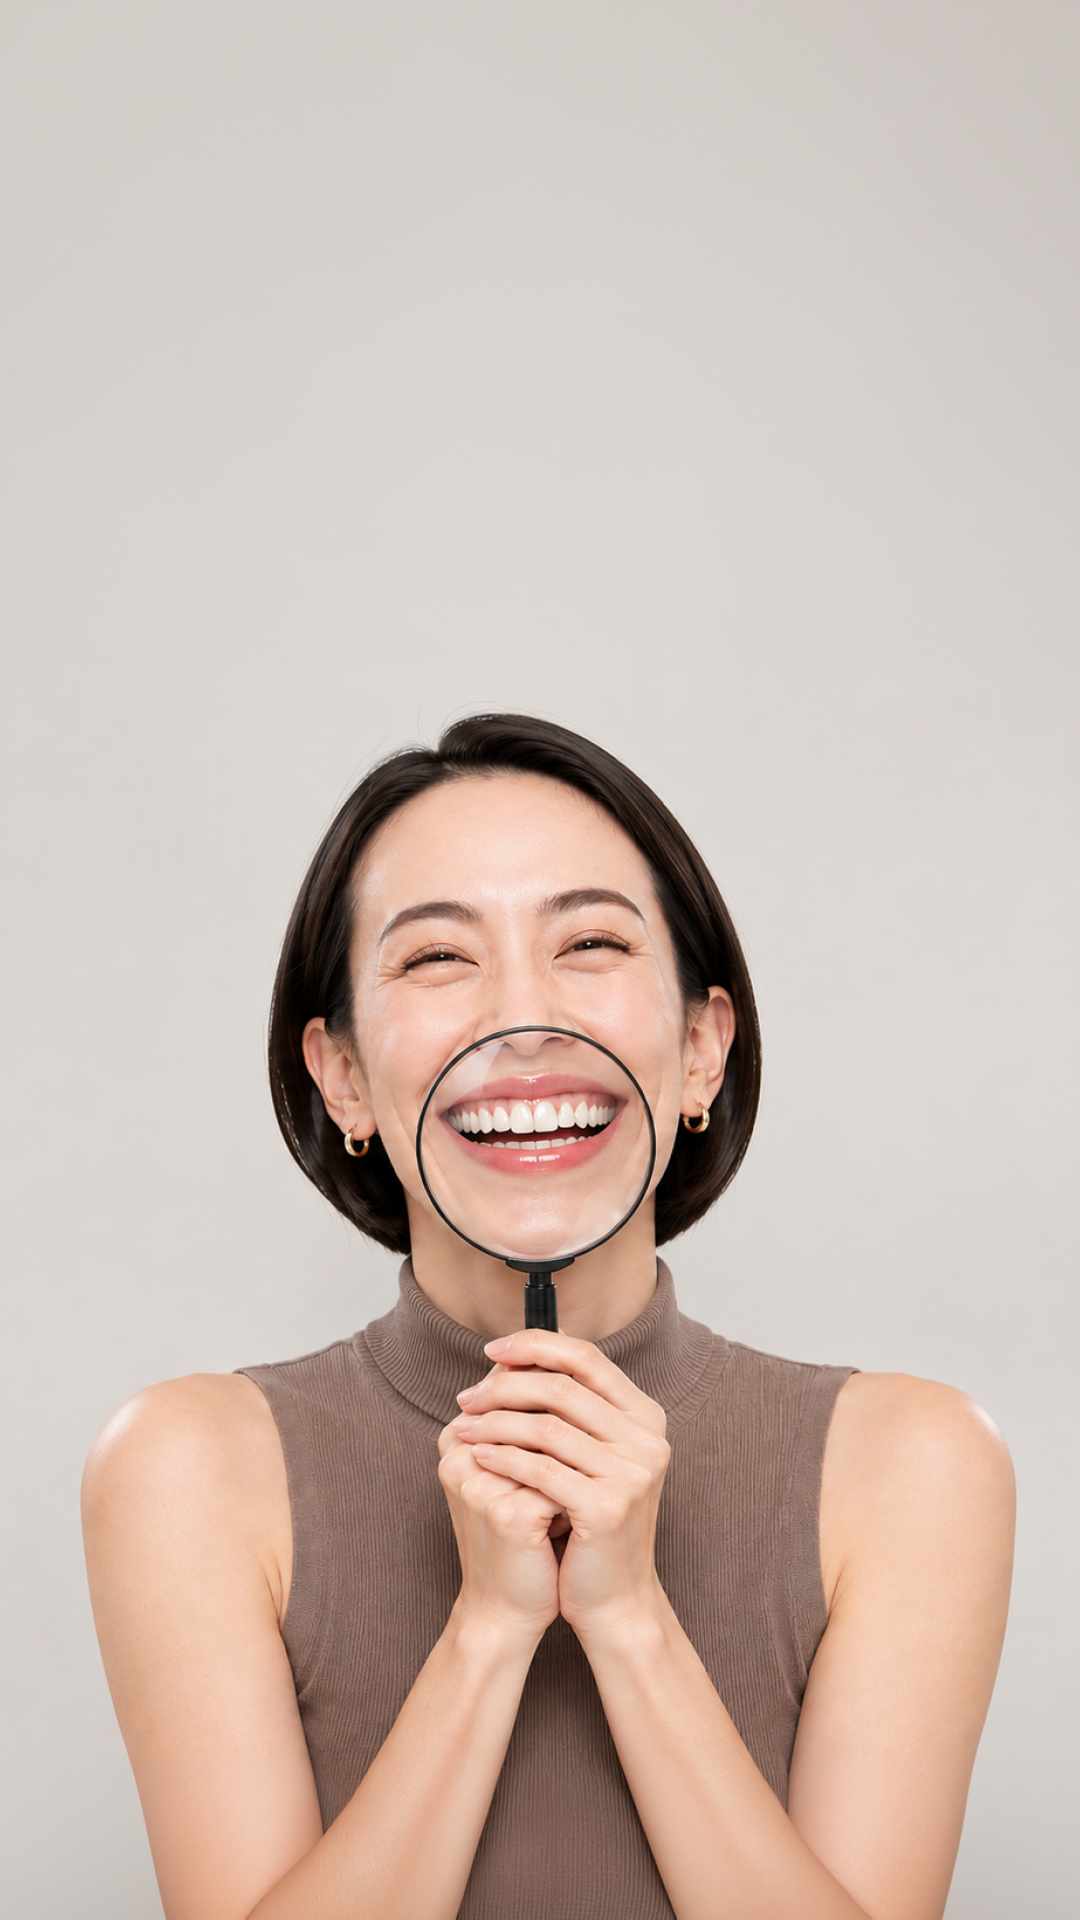
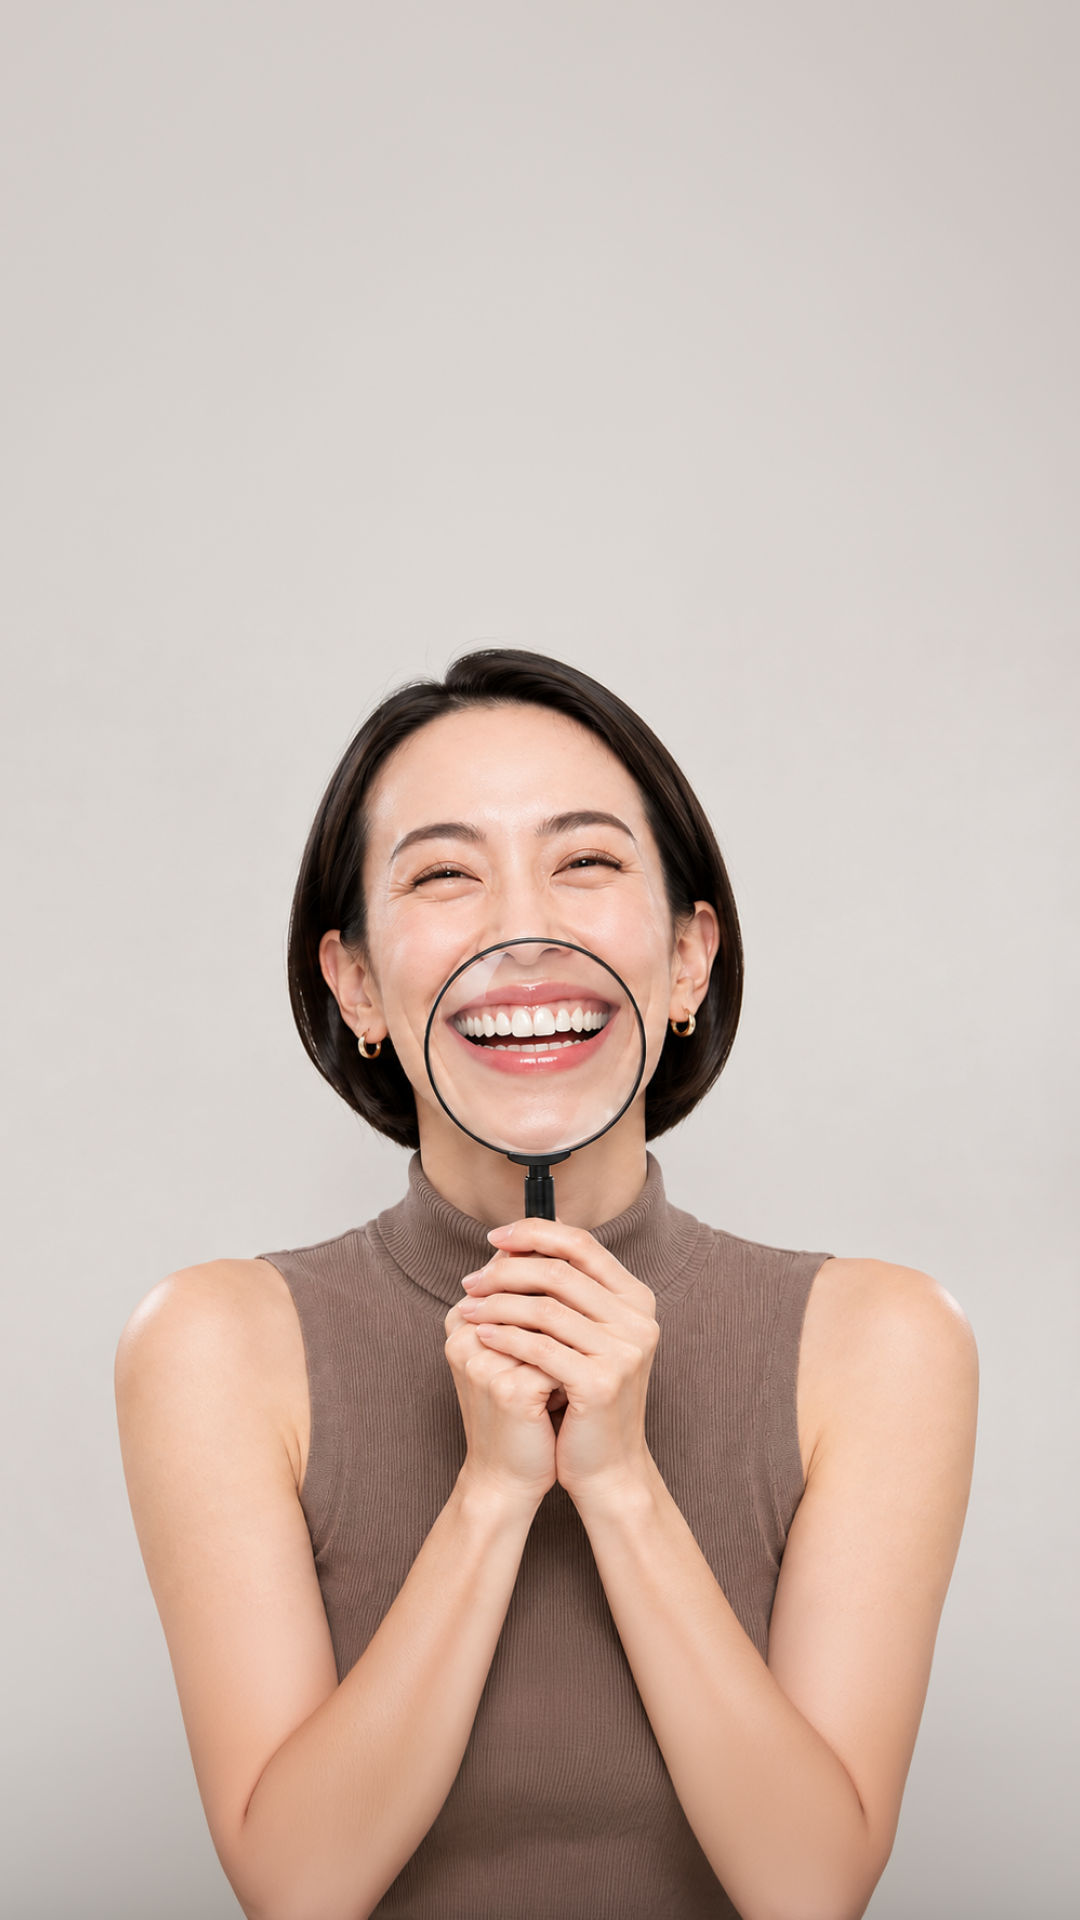
Update B mobile hero photo and lower title group 10px

Changed region(s): [[0.0, 0.3125, 0.9472, 1.0]]

diff --git a/smile-rwd-B/index.html b/smile-rwd-B/index.html
@@ -116,7 +116,7 @@
     }
   </style>
   <link rel="stylesheet" href="typography.css?v=editorial-intro-164">
-  <link rel="stylesheet" href="hero-photo.css?v=b-mobile-copy-gap-268">
+  <link rel="stylesheet" href="hero-photo.css?v=b-mobile-copy-down10-282">
   <link href="https://fonts.googleapis.com/css2?family=Noto+Serif+TC:wght@900&amp;display=block&amp;text=%E7%9F%AF%E6%AD%A3%E5%89%8D%EF%BC%8C%E5%85%88%E7%9C%8B%E6%87%82%E4%BB%A3%E5%83%B9" rel="stylesheet">
 
   <script>document.documentElement.classList.add('fonts-pending');window.smileFontsReady=new Promise(function(resolve){window.resolveSmileFonts=resolve;});</script>
@@ -170,7 +170,7 @@
       <main id="editorial-main-content">
         <section class="w-full">
           <div class="photo-hero photo-hero-b">
- <div class="photo-hero-media"><picture><source media="(max-width:639px)" srcset="./images/hero-photo-mobile.png?v=266"><img src="./images/hero-photo-cover-reference-v6.png?v=249" alt="女性手持放大鏡，凸顯整齊明亮的笑容" width="1671" height="941" fetchpriority="high" decoding="async"></picture></div>
+ <div class="photo-hero-media"><picture><source media="(max-width:639px)" srcset="./images/hero-photo-mobile.png?v=282"><img src="./images/hero-photo-cover-reference-v6.png?v=282" alt="女性手持放大鏡，凸顯整齊明亮的笑容" width="1671" height="941" fetchpriority="high" decoding="async"></picture></div>
  <div class="photo-hero-copy"><div class="photo-hero-copy-inner"><h1><span>矯正前<span class="b-hero-desktop-comma">，</span></span><span>先看懂代價</span></h1><p>打造完美笑容的安心法則</p></div></div>
  <button type="button" class="photo-hero-scroll" aria-label="捲動至內容"><svg viewBox="0 0 24 24" fill="none" stroke="currentColor" stroke-width="2" aria-hidden="true"><path d="m6 9 6 6 6-6"/></svg></button>
 </div>

diff --git a/smile-rwd-B/hero-photo.css b/smile-rwd-B/hero-photo.css
@@ -216,7 +216,7 @@
 /* Mobile-only centered title without the comma, enlarged as a complete group. */
 @media(max-width:639px){
  .photo-hero-b .b-hero-desktop-comma{display:none}
- .photo-hero-b .photo-hero-copy{top:calc(var(--b-header-height,64px) + 6vw + 20px)}
+ .photo-hero-b .photo-hero-copy{top:calc(var(--b-header-height,64px) + 6vw + 30px)}
  .photo-hero-b .photo-hero-copy-inner{width:fit-content;text-align:center;transform:scale(1.15);transform-origin:center top}
 }
 
